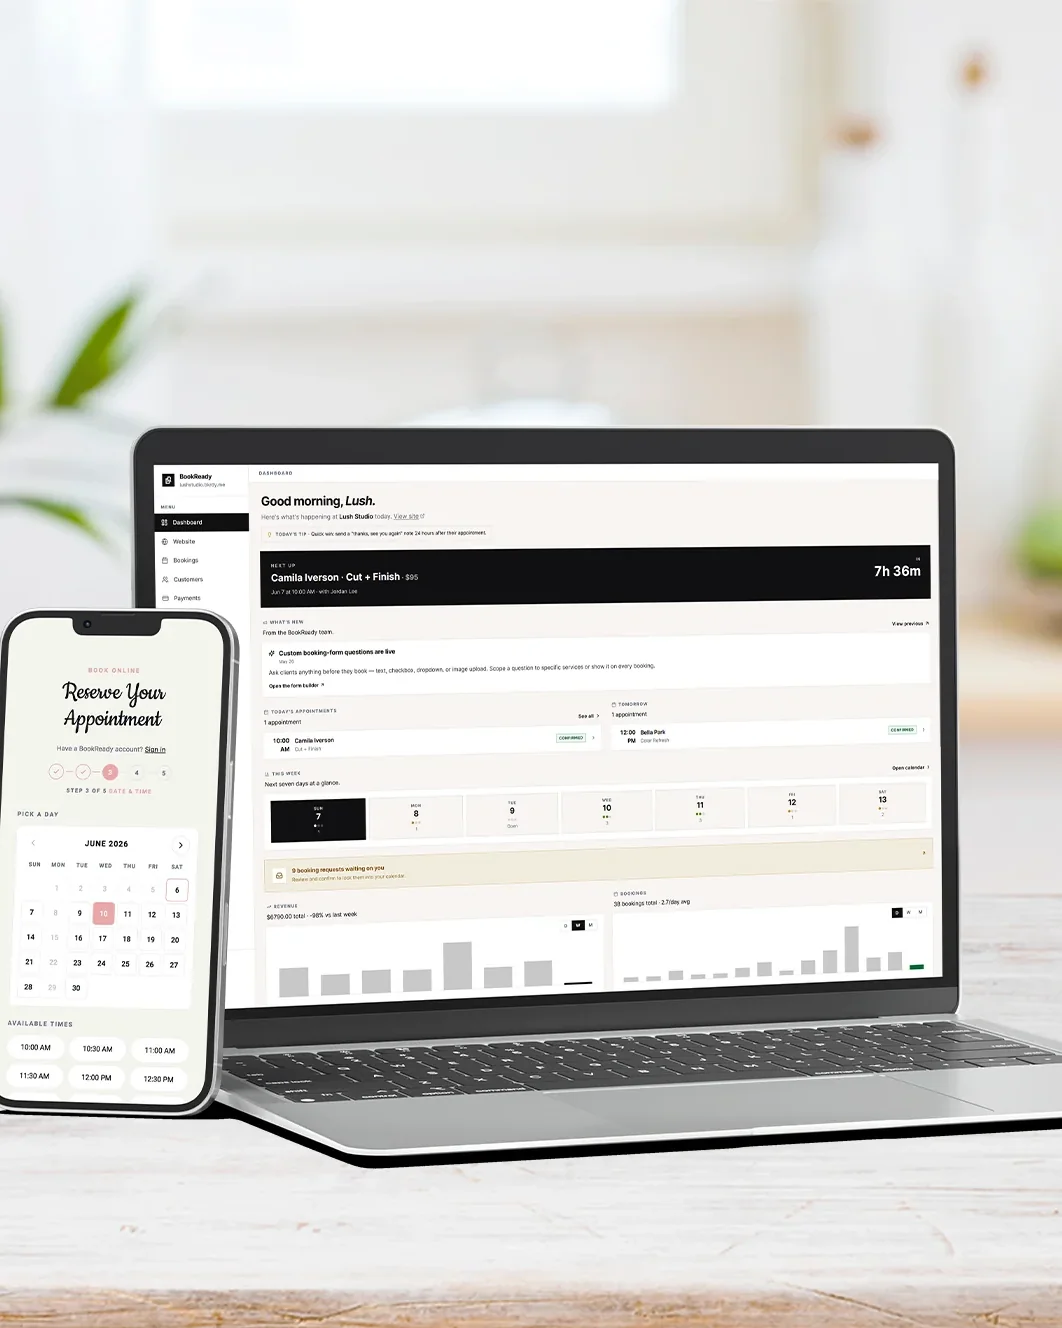
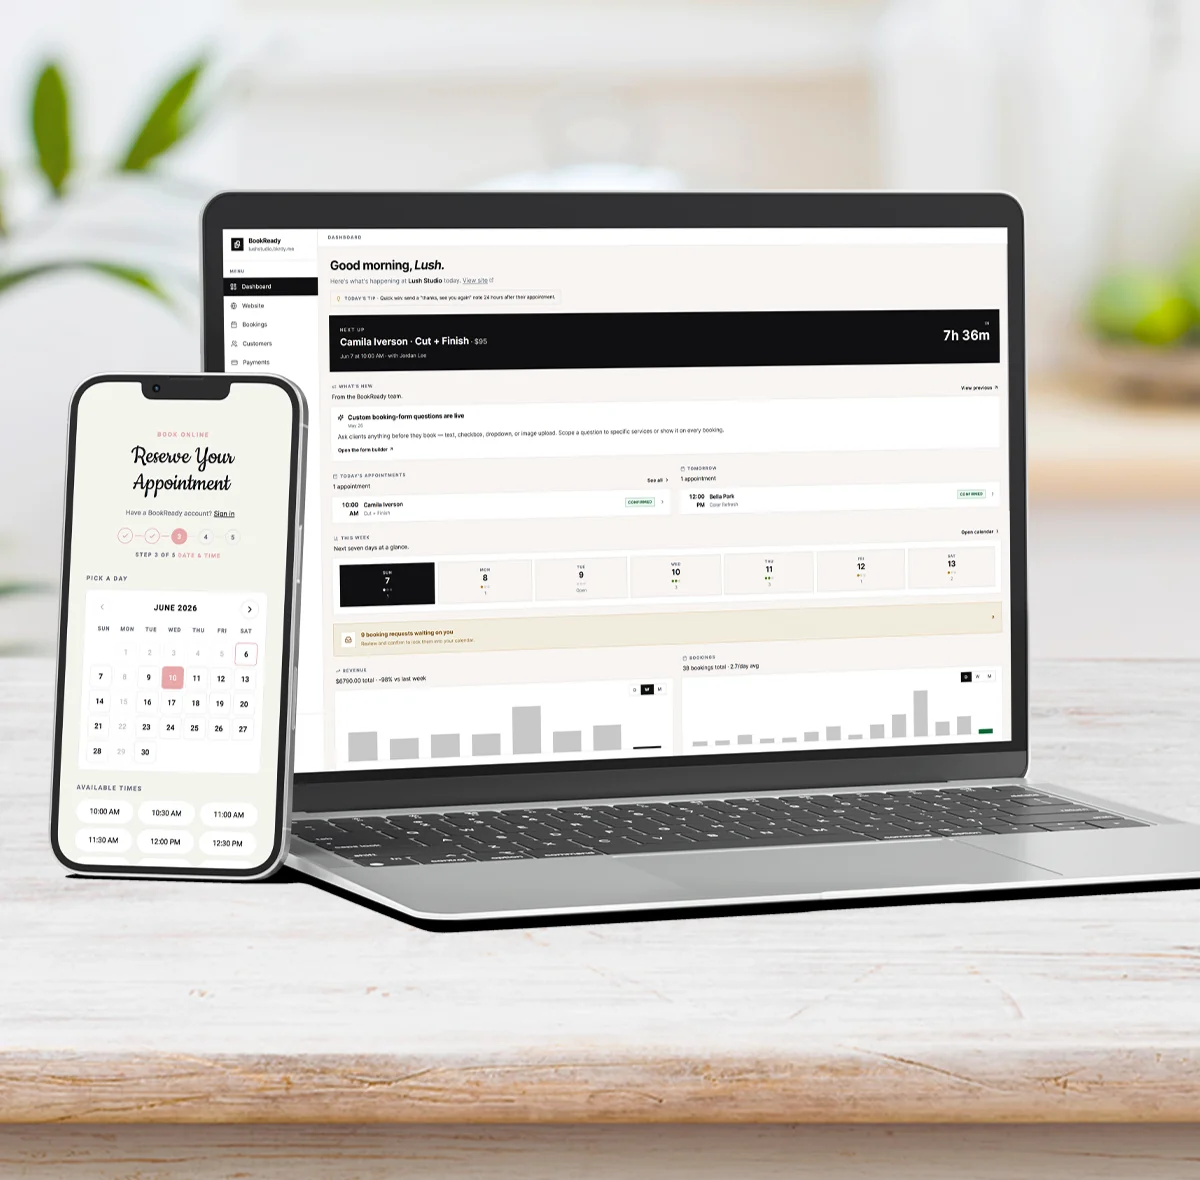
Hero: new 1200x1180 image + match container aspect-ratio (1200/1180)
hero  1158 KB PNG → 81 KB WebP (-93%)

diff --git a/styles.css b/styles.css
@@ -517,7 +517,7 @@ button { cursor: pointer; font: inherit; }
 }
 .br-hero__visual {
   width: 100%;
-  aspect-ratio: 1 / 1;
+  aspect-ratio: 1200 / 1180;
   overflow: hidden;
   background: var(--card);
   border: 1px solid var(--border);
